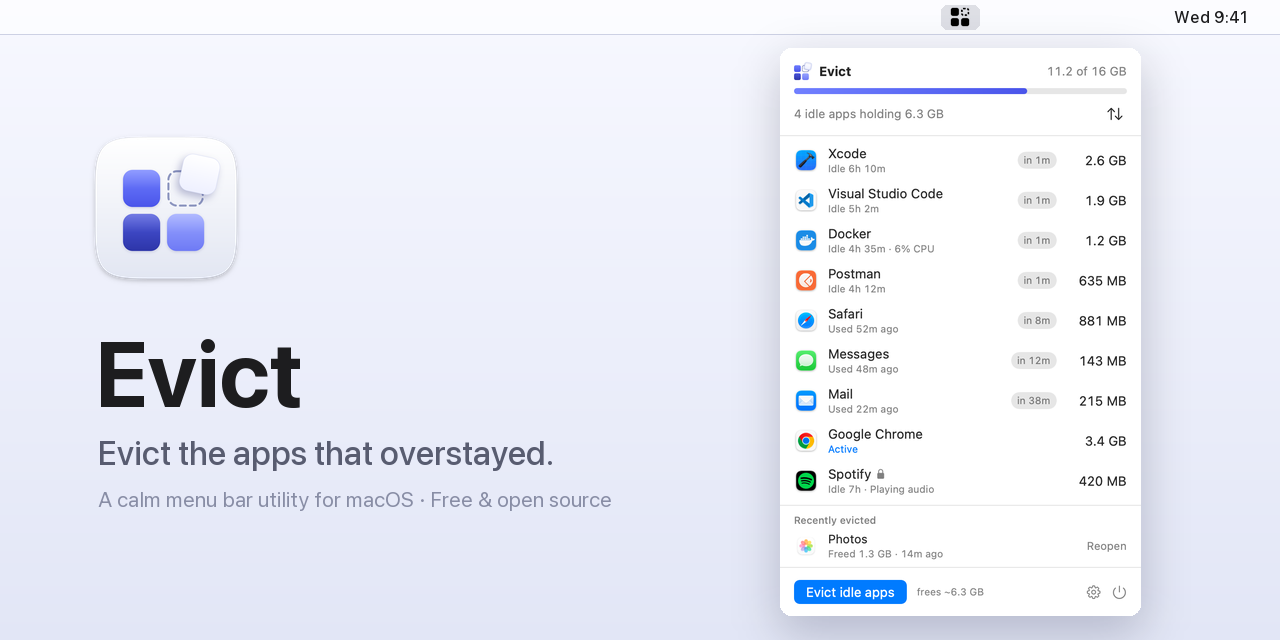
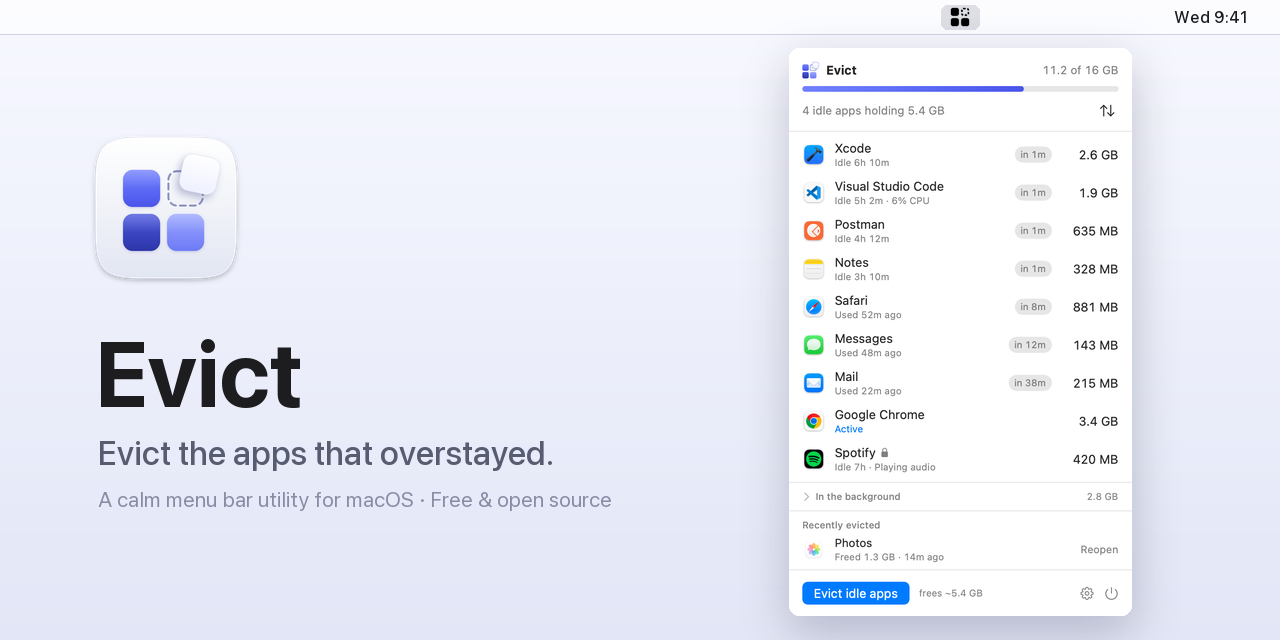
Show memory held by background processes outside the Dock
A lot of memory isn't in any Dock app: Docker's VM, menu bar apps,
helpers and agents. The popover now has a collapsible "In the background"
section that groups those processes by the app they come from (XPC
services count toward the app responsible for them, nested helpers
toward their outer app) and shows the total.

It's read-only: Evict never closes background processes. macOS's own
daemons are left out, and groups under 100 MB aren't listed.

Changed region(s): [[0.5938, 0.0938, 0.9062, 0.9688]]

diff --git a/Evict/System/BackgroundProcesses.swift b/Evict/System/BackgroundProcesses.swift
@@ -1,0 +1,91 @@
+import Darwin
+import Foundation
+
+/// Memory held outside the Dock: menu bar apps, helpers and agents (Docker's VM,
+/// Creative Cloud, sync clients…), grouped by the app they come from.
+/// Read-only — Evict never closes them.
+struct BackgroundGroup: Identifiable, Sendable {
+    /// The app bundle path, or the executable name for processes outside any app.
+    let id: String
+    let name: String
+    let bundlePath: String?
+    let memory: UInt64
+    let processCount: Int
+}
+
+enum BackgroundProcesses {
+    /// Groups smaller than this aren't worth a row.
+    static let minimumMemory: UInt64 = 100 * 1_048_576
+
+    /// macOS's own daemons and agents — part of the system, not something to explain.
+    private static let systemPrefixes = [
+        "/System/", "/usr/libexec/", "/usr/sbin/", "/usr/bin/", "/sbin/", "/bin/", "/Library/Apple/",
+    ]
+
+    /// Background groups, largest first. `apps` are the Dock apps (already listed);
+    /// `ownBundlePath` excludes Evict itself.
+    static func groups(in snapshot: ProcessSnapshot, excluding apps: Set<pid_t>, ownBundlePath: String) -> [BackgroundGroup] {
+        var totals: [String: (name: String, bundlePath: String?, memory: UInt64, count: Int)] = [:]
+
+        for (pid, process) in snapshot.processes where snapshot.owner(of: pid, among: apps) == nil {
+            guard let source = sourcePath(of: pid, process: process) else { continue }
+
+            let key: String
+            let name: String
+            let bundlePath: String?
+            if let bundle = outermostBundle(in: source) {
+                guard bundle != ownBundlePath else { continue }
+                key = bundle
+                bundlePath = bundle
+                name = displayName(ofBundle: bundle)
+            } else {
+                name = (source as NSString).lastPathComponent
+                key = name
+                bundlePath = nil
+            }
+            totals[key, default: (name, bundlePath, 0, 0)].memory += process.footprint
+            totals[key, default: (name, bundlePath, 0, 0)].count += 1
+        }
+
+        return totals
+            .map { BackgroundGroup(id: $0.key, name: $0.value.name, bundlePath: $0.value.bundlePath,
+                                   memory: $0.value.memory, processCount: $0.value.count) }
+            .filter { $0.memory >= minimumMemory }
+            .sorted { $0.memory > $1.memory }
+    }
+
+    /// Where a process "comes from": the app responsible for it (so an XPC service
+    /// counts toward the app that launched it), else its own executable. `nil` for
+    /// macOS's own processes.
+    private static func sourcePath(of pid: pid_t, process: ProcessSnapshot.Process) -> String? {
+        if let responsible = process.responsible, responsible != pid,
+           let path = executablePath(of: responsible), !isSystem(path) {
+            return path
+        }
+        guard let path = executablePath(of: pid), !isSystem(path) else { return nil }
+        return path
+    }
+
+    private static func isSystem(_ path: String) -> Bool {
+        systemPrefixes.contains { path.hasPrefix($0) }
+    }
+
+    /// "/Applications/Docker.app/Contents/MacOS/com.docker.backend" → "/Applications/Docker.app".
+    /// Nested helpers resolve to the outer app, not "… Helper.app".
+    private static func outermostBundle(in path: String) -> String? {
+        guard let range = path.range(of: ".app/") else { return path.hasSuffix(".app") ? path : nil }
+        return String(path[..<range.lowerBound]) + ".app"
+    }
+
+    private static func displayName(ofBundle path: String) -> String {
+        let name = FileManager.default.displayName(atPath: path)
+        return name.hasSuffix(".app") ? String(name.dropLast(4)) : name
+    }
+
+    private static func executablePath(of pid: pid_t) -> String? {
+        var buffer = [CChar](repeating: 0, count: 4 * Int(MAXPATHLEN)) // PROC_PIDPATHINFO_MAXSIZE
+        let length = Int(proc_pidpath(pid, &buffer, UInt32(buffer.count)))
+        guard length > 0 else { return nil }
+        return String(decoding: buffer[..<length].map { UInt8(bitPattern: $0) }, as: UTF8.self)
+    }
+}

diff --git a/Evict/Views/BackgroundSection.swift b/Evict/Views/BackgroundSection.swift
@@ -1,0 +1,74 @@
+import SwiftUI
+
+/// "In the background · 7.3 GB" — memory held outside the Dock, for reference.
+/// Collapsed by default; Evict never closes these.
+struct BackgroundSection: View {
+    let groups: [BackgroundGroup]
+
+    @AppStorage("showBackgroundProcesses") private var isExpanded = false
+    @Environment(\.accessibilityReduceMotion) private var reduceMotion
+
+    private static let visibleRows = 5
+    private var total: UInt64 { groups.reduce(0) { $0 + $1.memory } }
+
+    var body: some View {
+        VStack(alignment: .leading, spacing: 0) {
+            Button {
+                withAnimation(reduceMotion ? nil : .easeOut(duration: 0.15)) { isExpanded.toggle() }
+            } label: {
+                HStack(spacing: 6) {
+                    Image(systemName: "chevron.right")
+                        .font(.caption2.weight(.semibold))
+                        .foregroundStyle(.tertiary)
+                        .rotationEffect(.degrees(isExpanded ? 90 : 0))
+                    Text("In the background")
+                        .font(.caption.weight(.medium))
+                        .foregroundStyle(.secondary)
+                    Spacer()
+                    Text(Format.memory(total))
+                        .font(.caption)
+                        .monospacedDigit()
+                        .foregroundStyle(.secondary)
+                }
+                .contentShape(Rectangle())
+            }
+            .buttonStyle(.plain)
+            .padding(.horizontal, 14)
+            .padding(.vertical, 8)
+            .help("Menu bar apps, helpers and agents. Shown for reference: Evict never closes them.")
+            .accessibilityLabel("In the background, \(Format.memory(total))")
+            .accessibilityValue(isExpanded ? Text("Expanded") : Text("Collapsed"))
+
+            if isExpanded {
+                ForEach(groups.prefix(Self.visibleRows)) { group in
+                    row(group)
+                }
+                .transition(.opacity)
+            }
+        }
+        .padding(.bottom, isExpanded ? 6 : 0)
+    }
+
+    private func row(_ group: BackgroundGroup) -> some View {
+        HStack(spacing: 10) {
+            Image(nsImage: group.bundlePath.map { NSWorkspace.shared.icon(forFile: $0) }
+                  ?? NSWorkspace.shared.icon(for: .unixExecutable))
+                .resizable()
+                .frame(width: 18, height: 18)
+                .padding(.horizontal, 3)
+            Text(group.name)
+                .font(.callout)
+                .lineLimit(1)
+                .truncationMode(.middle)
+            Spacer(minLength: 8)
+            Text(Format.memory(group.memory))
+                .font(.callout)
+                .monospacedDigit()
+                .foregroundStyle(.secondary)
+        }
+        .padding(.horizontal, 14)
+        .frame(height: 26)
+        .help(group.bundlePath ?? group.name)
+        .accessibilityElement(children: .combine)
+    }
+}

diff --git a/Evict/AppMonitor.swift b/Evict/AppMonitor.swift
@@ -17,6 +17,8 @@ final class AppMonitor {
     private(set) var activePID: pid_t?
     private(set) var memory: [pid_t: UInt64] = [:]
     private(set) var busy: [pid_t: BusyReason] = [:]
+    /// Memory held outside the Dock (menu bar apps, helpers, agents), largest first.
+    private(set) var background: [BackgroundGroup] = []
     private(set) var system = SystemMemory.current()
     private(set) var power = PowerState.current()
     private(set) var now = Date()
@@ -58,7 +60,7 @@ final class AppMonitor {
     /// A frozen monitor with sample data, for README screenshots. Observes nothing.
     init(settings: AppSettings, demoApps: [(app: RunningAppInfo, memory: UInt64, idle: TimeInterval)],
          activePID: pid_t?, busy: [pid_t: BusyReason], backgroundCPU: [pid_t: Double],
-         recentlyEvicted: [EvictedApp], system: SystemMemory) {
+         recentlyEvicted: [EvictedApp], background: [BackgroundGroup], system: SystemMemory) {
         let now = Date()
         self.settings = settings
         self.now = now
@@ -67,6 +69,7 @@ final class AppMonitor {
         self.busy = busy
         self.cpuShare = backgroundCPU
         self.recentlyEvicted = recentlyEvicted
+        self.background = background
         self.system = system
         for demo in demoApps {
             memory[demo.app.id] = demo.memory
@@ -150,6 +153,7 @@ final class AppMonitor {
         memory = usage.mapValues(\.footprint)
         updateCPUShare(usage.mapValues(\.cpuTime), at: snapshot.uptime)
         busy = BusyDetector.reasons(for: appPIDs, snapshot: snapshot, cpuShare: cpuShare)
+        background = BackgroundProcesses.groups(in: snapshot, excluding: appPIDs, ownBundlePath: Bundle.main.bundlePath)
     }
 
     private func updateCPUShare(_ cpuTime: [pid_t: UInt64], at uptime: UInt64) {

diff --git a/Evict/Support/ScreenshotRenderer.swift b/Evict/Support/ScreenshotRenderer.swift
@@ -87,7 +87,7 @@ enum ScreenshotRenderer {
             app(1, "Google Chrome", "com.google.Chrome", 3.4, idleMinutes: 0),
             app(2, "Xcode", "com.apple.dt.Xcode", 2.6, idleMinutes: 370),
             app(3, "Visual Studio Code", "com.microsoft.VSCode", 1.9, idleMinutes: 302),
-            app(4, "Docker", "com.docker.docker", 1.2, idleMinutes: 275),
+            app(4, "Notes", "com.apple.Notes", 0.32, idleMinutes: 190),
             app(5, "Postman", "com.postmanlabs.mac", 0.62, idleMinutes: 252),
             app(6, "Spotify", "com.spotify.client", 0.41, idleMinutes: 420),
             app(7, "Safari", "com.apple.Safari", 0.86, idleMinutes: 52),
@@ -104,10 +104,16 @@ enum ScreenshotRenderer {
             demoApps: apps,
             activePID: 1,
             busy: [6: .playingAudio],
-            backgroundCPU: [4: 0.06],
+            backgroundCPU: [3: 0.06],
             recentlyEvicted: [
                 EvictedApp(name: "Photos", bundlePath: NSWorkspace.shared.urlForApplication(withBundleIdentifier: "com.apple.Photos")?.path,
                            freed: UInt64(1.3 * gb), date: Date().addingTimeInterval(-14 * 60), automatic: true),
+            ],
+            background: [
+                BackgroundGroup(id: "docker", name: "Docker",
+                                bundlePath: NSWorkspace.shared.urlForApplication(withBundleIdentifier: "com.docker.docker")?.path,
+                                memory: UInt64(2.4 * gb), processCount: 11),
+                BackgroundGroup(id: "node", name: "node", bundlePath: nil, memory: UInt64(0.38 * gb), processCount: 2),
             ],
             system: SystemMemory(used: UInt64(11.2 * gb), total: UInt64(16 * gb), pressure: .normal)
         )

diff --git a/Evict/EvictApp.swift b/Evict/EvictApp.swift
@@ -46,6 +46,10 @@ final class AppDelegate: NSObject, NSApplicationDelegate {
                 let busy = entry.busyReason.map { "\($0)" } ?? entry.backgroundCPU.map { String(format: "-  (cpu %.1f%%)", $0 * 100) } ?? "-"
                 print("\(entry.app.name.padding(toLength: 24, withPad: " ", startingAt: 0)) \(memory.padding(toLength: 9, withPad: " ", startingAt: 0)) idle \(Format.duration(entry.idle).padding(toLength: 8, withPad: " ", startingAt: 0)) busy: \(busy)\(entry.isActive ? "  [active]" : "")\(entry.isProtected ? "  [protected]" : "")")
             }
+            print("\nIn the background:")
+            for group in monitor.background {
+                print("  \(group.name.padding(toLength: 30, withPad: " ", startingAt: 0)) \(Format.memory(group.memory).padding(toLength: 9, withPad: " ", startingAt: 0)) \(group.processCount) processes  \(group.bundlePath ?? "")")
+            }
             NSApp.terminate(nil)
         }
     }

diff --git a/Evict/Views/PopoverView.swift b/Evict/Views/PopoverView.swift
@@ -19,6 +19,10 @@ struct PopoverView: View {
             header(evictable: evictable, reclaimable: reclaimable)
             Divider()
             list(entries)
+            if !monitor.background.isEmpty {
+                Divider()
+                BackgroundSection(groups: monitor.background)
+            }
             if !monitor.recentlyEvicted.isEmpty {
                 Divider()
                 RecentlyEvictedSection(items: Array(monitor.recentlyEvicted.prefix(3)), now: monitor.now, reopen: monitor.reopen)

diff --git a/README.md b/README.md
@@ -26,6 +26,8 @@ It informs; you decide. No scary warnings, no "optimization scores".
   playing audio, on a call, keeping the Mac awake (downloads, exports, video) or
   busy working. Apps always quit gracefully, like pressing ⌘Q, so they can ask to
   save your work.
+- **Shows what hides in the background.** Memory held outside the Dock — menu bar
+  apps, helpers and agents like Docker's VM — grouped by app, for reference.
 - **Easy to undo.** Recently evicted apps are one click away from coming back.
 - **Kind to your battery.** On battery or in Low Power Mode, apps count as idle
   after half the time, and apps burning CPU in the background are called out.
